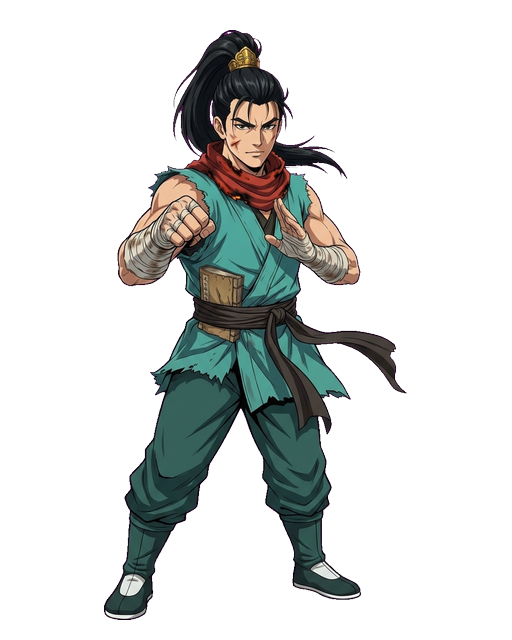
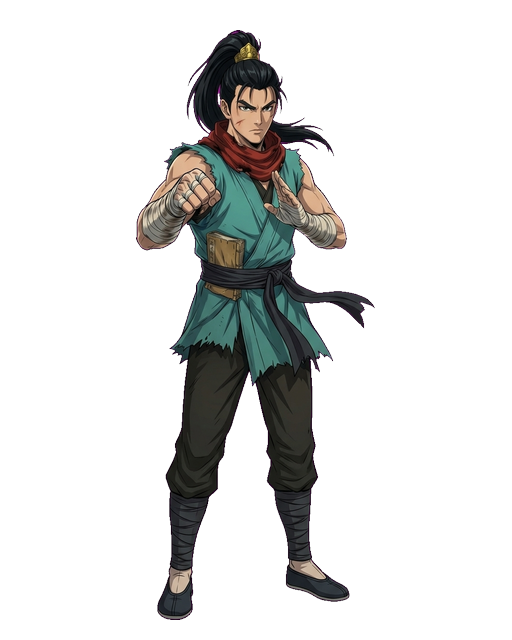
武者 / 杨家将立绘与选人图 v10（腿长修正）；封面保持 v3（v10 封面仅存档）（全量测试运行中）
Claude-Session: https://claude.ai/code/session_01AdrMLJK1Rs8dRqXGtPMhfy

Changed region(s): [[0.1875, 0.0312, 0.7812, 0.9688]]

diff --git a/tools/process_yangjia_v3_art.py b/tools/process_yangjia_v3_art.py
@@ -10,11 +10,12 @@ V3 = ROOT / "assets" / "source" / "yangjiajiang_v3"
 V8 = ROOT / "assets" / "source" / "yangjiajiang_v8"     # 第八版：武者成年二次元重画（有就优先）
 
 
+V10 = ROOT / "assets" / "source" / "proportions_v10"    # 第十版：武者 / 杨家将腿长修正
 V9 = ROOT / "assets" / "source" / "charselect_v9"        # 第九版：四职业选人全身像（与封面同画风）
 
 
 def pick(name):
-    for d in (V9, V8):
+    for d in (V10, V9, V8):
         if (d / name).exists():
             return d / name
     return V3 / name
